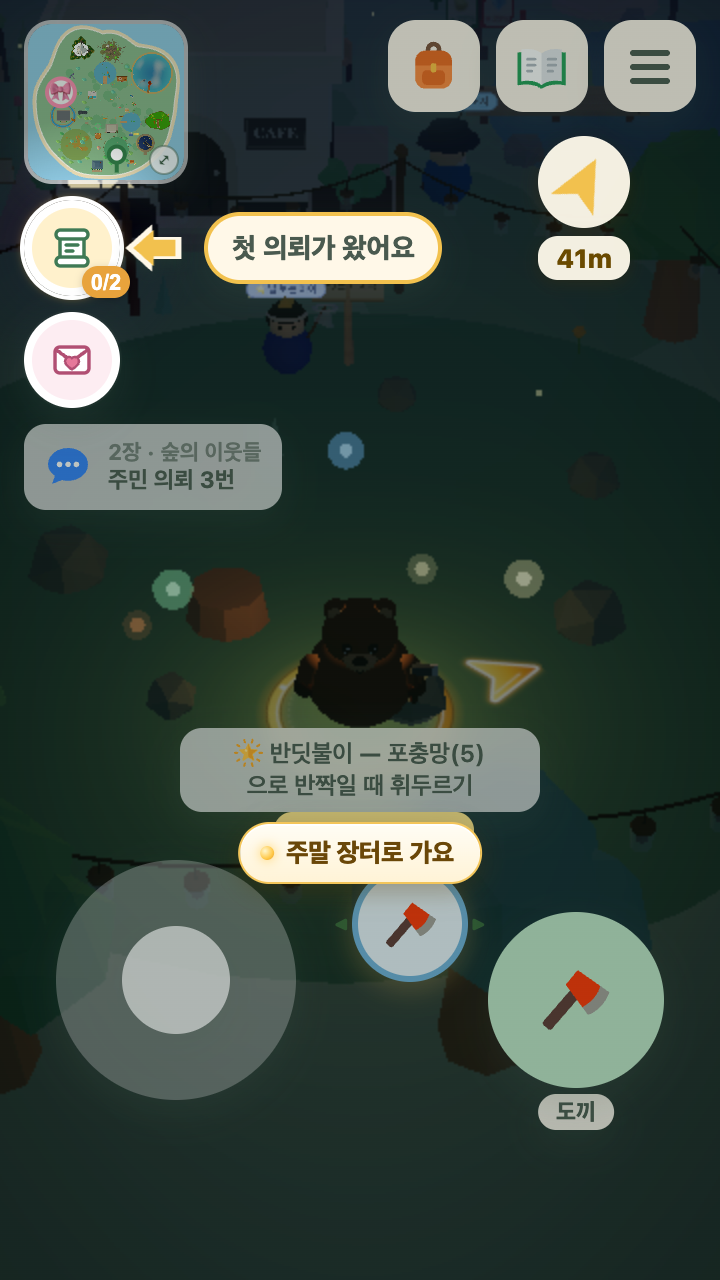
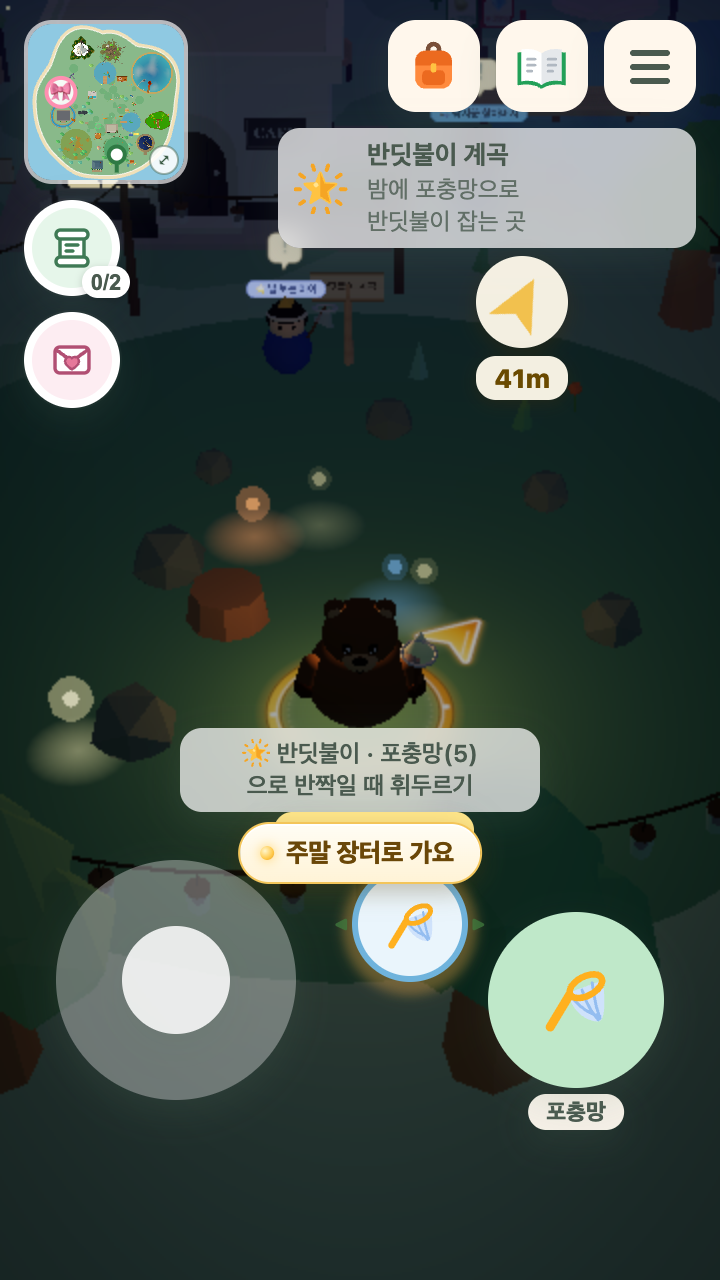
feat(glade): stream nights move as one string, light pools under low fireflies, net in hand in the glade
- trees that hold the string lights are no longer chopped, auto-axed or targeted by the tree goal
- swinging at a guarded leader sparkles the next kid instead of speeding the swarm
- zone hint copy drops the em dash

diff --git a/js/spaces/glade.js b/js/spaces/glade.js
@@ -17,9 +17,10 @@ import { BUG_KINDS, CAFE_GATE, GLADE, GLADE_R, LIGHT_WORKSHOP, LIGHT_WORKSHOP_PO
 import { PAL } from '../data/world.js';
 import { NIGHT_MIN } from '../daynight.js';
 import { gateOf, gateOpen, rollKind } from '../dex-gates.js';
-import { NIGHT_KINDS, TUNE, monoKind, nightKind, pickKindId, streamPoint } from '../glade/night.js';
+import { NIGHT_KINDS, STREAM, TUNE, monoKind, nightKind, pickKindId, streamPoint } from '../glade/night.js';
+import { buildPools, updatePools } from '../glade/pool-art.js';
 import { MONO_BANNER, NIGHT_BANNER, SWARM_BANNER, catchText, comboText, perfectText, stringBanner } from '../glade/copy.js';
-import { FIRST_DELAY, KIDS, LEADER_BUGS, NEXT_DELAY, PERFECT_BONUS, createSwarm, delay, expired, kidBright, kidsLeft, swingKid, swingLeader } from '../glade/swarm.js';
+import { FIRST_DELAY, KIDS, LEADER_BUGS, NEXT_DELAY, PERFECT_BONUS, createSwarm, delay, expired, kidBright, kidsLeft, nextKid, swingKid, swingLeader } from '../glade/swarm.js';
 import { makeLeader, setLeaderGlow } from '../glade/swarm-art.js';
 import { JARS_PER_SEG, SEG_COINS, THRESHOLDS, addCatch, nextThreshold, segmentsLit, stringColors } from '../glade/string.js';
 import { layoutAnchors } from '../glade/string-layout.js';
@@ -32,6 +33,7 @@ import * as THREE from 'three';
 const devQuery = /^(localhost|127\.0\.0\.1|\[::1\])$/.test(location.hostname) ? new URLSearchParams(location.search) : new URLSearchParams();
 let gladeNight = null;
 let nightBannerDay = '';
+let streamPhase = 0, poolArt = null;
 let stringArt = null, stringNight = null, stringCaught = -1, devApplied = false;
 const FALLBACK_COLOR = 0xfff2a8;
 
@@ -166,8 +168,10 @@ function netSwarm() {
   if (best.idx < 0) {
     const res = swingLeader(swarm, { ...odds, bright: leaderBright(t) });
     if (!res.hit) {
-      swarmBoost = 1.2; Sound.blip();
-      if (res.reason === 'miss') spawnFloatText(wx, wy + 0.5, wz, '휙— 놓쳤다!', '#8a8f7a');
+      Sound.blip();
+      if (res.reason === 'miss') { swarmBoost = 1.2; spawnFloatText(wx, wy + 0.5, wz, '휙— 놓쳤다!', '#8a8f7a'); return true; }
+      const kid = swarmObjs.kids[nextKid(swarm)];
+      if (kid) spawnSparkle(kid.position.x + GLADE.x, kid.position.y, kid.position.z + GLADE.z, 14);
       return true;
     }
     swarm = res.sw;
@@ -240,7 +244,10 @@ export function buildGlade() {
   }
   obstacles.push({ x: GLADE.x, z: GLADE.z, r: GLADE_R });   // 계곡 안엔 밭 금지(빈터 유지)
   const ringTrees = trees.map(t => ({ x: t.position.x - GLADE.x, z: t.position.z - GLADE.z }));
-  stringArt = buildString({ group: gladeGroup, anchors: layoutAnchors(ringTrees, GLADE_R), clayMat, mergeGeos });
+  const anchors = layoutAnchors(ringTrees, GLADE_R);
+  for (const a of anchors) if (!a.post) trees[a.i].userData.holdsString = true;
+  stringArt = buildString({ group: gladeGroup, anchors, clayMat, mergeGeos });
+  poolArt = buildPools(gladeGroup, GLADE_MAX + KIDS);
 }
 
 // 종류 추첨 — 🌈무지개반디는 🌧비·🌫안개 낀 날 **밤**에만(게이트 안에서 18%). 표는 js/dex-gates.js
@@ -269,7 +276,7 @@ export function makeFirefly(kind) {
     phase: Math.random() * Math.PI * 2,          // 점멸 위상 — 밝을 때 휘둘러야 잘 잡힘
     tx: 0, tz: 0, ty: 1.4,                       // 배회 목적지(계곡 로컬)
     flee: 0,                                     // 남은 도망 시간(초)
-    su: Math.random() * Math.PI * 2,
+    so: 0, home: Math.random() * STREAM.window,
   };
   retargetFirefly(g);
   return g;
@@ -288,6 +295,11 @@ export function spawnFirefly() {
   const a = Math.random() * Math.PI * 2, r = Math.random() * (GLADE_R - 1);
   const tune = nightNow().tune;
   bug.position.set(Math.cos(a) * r, tune.yMin + Math.random() * (tune.yMax - tune.yMin), Math.sin(a) * r);
+  if (nightNow().kind === 'stream') {
+    bug.userData.so = bug.userData.home;
+    const p = streamPoint(streamPhase - bug.userData.so, GLADE_R - 0.8);
+    bug.position.x = p.x; bug.position.z = p.z;
+  }
   gladeGroup.add(bug); gladeBugs.push(bug);
 }
 
@@ -309,10 +321,12 @@ export function updateFireflyBugs(dt, t) {
     if (swarm) endSwarm(t, 'timeout');
     swarmAt = 0;
     gladeNight = null;
+    if (poolArt) poolArt.mesh.count = 0;
     return;
   }
   const now = nightNow(), tune = now.tune, stream = now.kind === 'stream';
   announceNight(now);
+  if (stream) streamPhase += dt * STREAM.speed;
   if (t >= bugRespawnAt && gladeBugs.length < GLADE_MAX && !swarm) {
     spawnFirefly();
     $w.bugRespawnAt = t + (1.2 + Math.random() * 2.4) * tune.respawn;
@@ -325,6 +339,7 @@ export function updateFireflyBugs(dt, t) {
     // 점멸 — 밝을 때가 "잡을 타이밍"(사인 곡선 그대로 UI/성공률에 연동)
     const bright = 0.5 + 0.5 * Math.sin(u.phase);
     const fade = Math.min(1, (nightLevel - NIGHT_MIN) / 0.2);   // 해질녘엔 서서히 나타남
+    u.bright = bright;
     u.core.material.opacity = (0.3 + bright * 0.7) * fade;
     u.halo.material.opacity = (0.05 + bright * 0.3) * fade;
     u.halo.scale.setScalar(0.8 + bright * 0.55);
@@ -334,10 +349,10 @@ export function updateFireflyBugs(dt, t) {
     if (pd < tune.fleeDist && u.flee <= 0) { u.flee = 0.9; }
     let sp = tune.speed;
     if (stream) {
-      u.su += dt * (u.flee > 0 ? 1.1 : 0.35);
-      const p = streamPoint(u.su, GLADE_R - 0.8);
-      u.tx = p.x; u.tz = p.z; sp = u.flee > 0 ? 2.6 : 1.4;
-      if (u.flee > 0) u.flee -= dt;
+      if (u.flee > 0) { u.flee -= dt; u.so = Math.max(-STREAM.ahead, u.so - dt * 0.8); }
+      else u.so += (u.home - u.so) * Math.min(1, dt * 0.6);
+      const p = streamPoint(streamPhase - u.so, GLADE_R - 0.8);
+      u.tx = p.x; u.tz = p.z; sp = u.flee > 0 ? 2.8 : 2.4;
     } else if (u.flee > 0) {
       u.flee -= dt; sp = 2.3;
       const k = pd || 0.001;
@@ -348,12 +363,15 @@ export function updateFireflyBugs(dt, t) {
     const td = Math.hypot(tdx, tdz);
     if (td < 0.25 && u.flee <= 0 && !stream) retargetFirefly(bug);
     else {
-      bug.position.x += (tdx / (td || 1)) * sp * dt;
-      bug.position.z += (tdz / (td || 1)) * sp * dt;
+      const step = Math.min(td, sp * dt);
+      bug.position.x += (tdx / (td || 1)) * step;
+      bug.position.z += (tdz / (td || 1)) * step;
     }
     bug.position.y += tdy * dt * 0.8 + Math.sin(t * 2.2 + u.phase) * dt * 0.35;   // 위아래로 하늘하늘
   }
   updateSwarm(dt, t);
+  const kidsOut = swarm ? swarmObjs.kids.filter((k, i) => swarm.kids[i]) : [];
+  if (poolArt) updatePools(poolArt, kidsOut.length ? [...gladeBugs, ...kidsOut] : gladeBugs, Math.max(0, Math.min(1, (nightLevel - NIGHT_MIN) / 0.2)));
 }
 
 // 🦋 포충망 휘두르기 — 밤 + 계곡 + 반딧불이 근처에서만. 반짝일 때 휘둘러야 잘 잡힘

diff --git a/js/glade/pool-art.js b/js/glade/pool-art.js
@@ -1,0 +1,35 @@
+import * as THREE from 'three';
+import { poolGlow } from './night.js';
+
+const POOL_Y = 0.04;
+
+export function buildPools(group, max) {
+  const geo = new THREE.CircleGeometry(1, 20);
+  geo.rotateX(-Math.PI / 2);
+  const fall = new Float32Array(geo.attributes.position.count * 3);
+  fall.set([1, 1, 1]);
+  geo.setAttribute('color', new THREE.BufferAttribute(fall, 3));
+  const mat = new THREE.MeshBasicMaterial({ vertexColors: true, transparent: true, opacity: 0.5, blending: THREE.AdditiveBlending, depthWrite: false, toneMapped: false });
+  const mesh = new THREE.InstancedMesh(geo, mat, max);
+  const black = new THREE.Color(0x000000);
+  for (let i = 0; i < max; i++) mesh.setColorAt(i, black);
+  mesh.count = 0;
+  mesh.frustumCulled = false;
+  group.add(mesh);
+  return { mesh, max, m: new THREE.Matrix4(), c: new THREE.Color() };
+}
+
+export function updatePools(art, bugs, fade) {
+  let n = 0;
+  for (const b of bugs) {
+    if (n >= art.max) break;
+    const g = poolGlow(b.position.y, b.userData.bright ?? 0.5);
+    if (g.k <= 0.01) continue;
+    art.mesh.setMatrixAt(n, art.m.makeScale(g.r, 1, g.r).setPosition(b.position.x, POOL_Y, b.position.z));
+    art.mesh.setColorAt(n, art.c.set(b.userData.kind.color).multiplyScalar(g.k * fade));
+    n++;
+  }
+  art.mesh.count = n;
+  art.mesh.instanceMatrix.needsUpdate = true;
+  art.mesh.instanceColor.needsUpdate = true;
+}

diff --git a/js/glade/string-layout.js b/js/glade/string-layout.js
@@ -5,7 +5,7 @@ const spanTo = (a, b) => ((b - a) + TAU) % TAU || TAU;
 
 export function layoutAnchors(trees, R, count = 11) {
   let ring = trees
-    .map(p => ({ x: p.x, z: p.z, d: Math.hypot(p.x, p.z), a: Math.atan2(p.z, p.x) }))
+    .map((p, i) => ({ x: p.x, z: p.z, d: Math.hypot(p.x, p.z), a: Math.atan2(p.z, p.x), i }))
     .filter(p => p.d > R + BAND_IN && p.d < R + BAND_OUT)
     .sort((p, q) => p.a - q.a);
   while (ring.length > count) {
@@ -26,7 +26,7 @@ export function layoutAnchors(trees, R, count = 11) {
   }
   const out = [];
   ring.forEach((p, i) => {
-    out.push({ a: p.a, x: p.x * (1 - INSET / p.d), z: p.z * (1 - INSET / p.d), post: false });
+    out.push({ a: p.a, x: p.x * (1 - INSET / p.d), z: p.z * (1 - INSET / p.d), post: false, i: p.i });
     for (let k = 1; k <= gaps[i].posts; k++) {
       const a = p.a + (gaps[i].span * k) / (gaps[i].posts + 1);
       out.push({ a, x: Math.cos(a) * (R + POST_OUT), z: Math.sin(a) * (R + POST_OUT), post: true });

diff --git a/js/i18n-en.js b/js/i18n-en.js
@@ -2557,8 +2557,8 @@ export const EN = {
   '집 외관 꾸미기': 'House Exterior Decor',
   '지붕·벽·문 색을 바꿔 나만의 집으로': 'Recolor the roof, walls, and door — make it yours',
   '💬 {0}': '💬 {0}',
-  '🌟 반딧불이 — 포충망(5)으로 반짝일 때 휘두르기': '🌟 Fireflies — swing the Bug Net (5) when they flash',
-  '🌟 반딧불이 계곡 — 🌙 밤에 다시 오세요': '🌟 Firefly Valley — 🌙 come back at night',
+  '🌟 반딧불이 · 포충망(5)으로 반짝일 때 휘두르기': '🌟 Fireflies · swing the Bug Net (5) when they flash',
+  '🌟 반딧불이 계곡 · 🌙 밤에 다시 오세요': '🌟 Firefly Valley · 🌙 come back at night',
   '반딧불이 계곡': 'Firefly Valley',
   '식당이 문을 열었어요. 반딧불이 계곡 아래로 가 보세요': 'The restaurant is open. Head below Firefly Valley',
   '⚠ 재고가 부족해요': '⚠ Running low on ingredients',

diff --git a/js/game.js b/js/game.js
@@ -1989,7 +1989,7 @@ export function projectToScreen(pos, lift = 0) {
 let spotTool = SPOT_IDLE;
 function nearestTreeDist() {
   let d = Infinity;
-  for (const tree of trees) { if (tree.userData.fallen) continue; const e = dist2D(tree.position, player.position); if (e < d) d = e; }
+  for (const tree of trees) { if (tree.userData.fallen || tree.userData.holdsString) continue; const e = dist2D(tree.position, player.position); if (e < d) d = e; }
   return d;
 }
 function updateSpotToolAuto() {
@@ -8144,7 +8144,7 @@ function handleAction() {
   if (fg) {
     let treeD = Infinity;
     if (TOOLS[currentTool].id === 'axe') {
-      for (const tr of trees) if (!tr.userData.fallen) treeD = Math.min(treeD, dist2D(tr.position, player.position));
+      for (const tr of trees) if (!tr.userData.fallen && !tr.userData.holdsString) treeD = Math.min(treeD, dist2D(tr.position, player.position));
     }
     if (treeD >= fg.d) return tryForage(fg.node);
   }

diff --git a/js/spaces/doors.js b/js/spaces/doors.js
@@ -534,7 +534,7 @@ export function updateZoneHint() {
   const wasGlade = nearGlade;
   $w.nearGlade = inVillage2() && isOpen('glade') && dist2D(GLADE, player.position) < GLADE_R + 0.5;
   if (nearGlade && !nearLightWorkshop) {   // 🏮 공방 문 앞에선 공방 프롬프트만 — 밤에 안내 두 줄이 겹쳤다
-    hint = isNight() ? '🌟 반딧불이 — 포충망(5)으로 반짝일 때 휘두르기' : '🌟 반딧불이 계곡 — 🌙 밤에 다시 오세요';
+    hint = isNight() ? '🌟 반딧불이 · 포충망(5)으로 반짝일 때 휘두르기' : '🌟 반딧불이 계곡 · 🌙 밤에 다시 오세요';
     if (!wasGlade) { trackEvent('zone_enter', { zone: 'glade', night: isNight() }); decorBanner('firefly'); }   // [GA4] 밤 콘텐츠 유입
     firstHintBanner('glade', '🌟', '반딧불이 계곡', '밤에 포충망으로 반딧불이 잡는 곳');
   }

diff --git a/js/guide/goal-guide.js b/js/guide/goal-guide.js
@@ -91,8 +91,9 @@ export function createGoalGuide(deps) {
     if (key === 'tree') {
       if (!inV) return null;
       const npcs = deps.npcSpots();
-      const clear = (t) => !t.userData.fallen && npcs.every(n => Math.hypot(n.x - t.position.x, n.z - t.position.z) >= NPC_CLEAR);
-      return { at: nearest(deps.trees(), clear) || nearest(deps.trees(), t => !t.userData.fallen), g: GOALS.tree };
+      const standing = (t) => !t.userData.fallen && !t.userData.holdsString;
+      const clear = (t) => standing(t) && npcs.every(n => Math.hypot(n.x - t.position.x, n.z - t.position.z) >= NPC_CLEAR);
+      return { at: nearest(deps.trees(), clear) || nearest(deps.trees(), standing), g: GOALS.tree };
     }
     if (key === 'cave') {
       if (inV) return { at: deps.mineGate, g: GOALS.cave, arrive: GATE_ARRIVE };

diff --git a/js/data/tools.js b/js/data/tools.js
@@ -66,6 +66,6 @@ export const ZONE_PAGE = {
 
 // 세트만으론 부족한 구역 — 들 도구까지 정해 준다. 광산은 ⛏괭이 말고 할 일이 없는데
 // 세트만 펴 주면 마지막에 쓰던 🌰씨앗·낫이 손에 남아 "눌러도 안 캐진다"가 됐다(베타 피드백).
-export const ZONE_TOOL = { mine: 'hoe' };
+export const ZONE_TOOL = { mine: 'hoe', glade: 'net' };
 
 export const ZONE_KIT = { mine: ['hoe'] };

diff --git a/js/glade/night.js b/js/glade/night.js
@@ -33,3 +33,10 @@ export const TUNE = Object.freeze({
 });
 
 export const streamPoint = (u, R) => ({ x: R * 0.68 * Math.sin(u), z: R * 0.4 * Math.sin(2 * u) });
+
+export const STREAM = Object.freeze({ speed: 0.35, window: 1.4, ahead: 0.6 });
+
+export function poolGlow(y, bright) {
+  const near = Math.min(1, Math.max(0, (1.7 - y) / 1.2));
+  return { k: near * (0.35 + 0.65 * bright), r: 0.35 + 0.45 * near };
+}

diff --git a/js/spaces/fishing.js b/js/spaces/fishing.js
@@ -150,7 +150,7 @@ export function updateFishing() {
 export function tryChop() {
   let nearest = null, nd = 2.6;
   for (const tree of trees) {
-    if (tree.userData.fallen) continue;
+    if (tree.userData.fallen || tree.userData.holdsString) continue;
     const d = dist2D(tree.position, player.position);
     if (d < nd) { nd = d; nearest = tree; }
   }

diff --git a/dev/active/glade-polish/glade-polish-context.md b/dev/active/glade-polish/glade-polish-context.md
@@ -1,0 +1,17 @@
+# 반딧불이 계곡 다듬기 · context
+
+Last Updated: 2026-11-22
+
+- 기준: main 491e8783. 계곡 코드 `js/spaces/glade.js`, 규칙 `js/glade/*.js`, 기록 `dev/active/glade-develop/`
+- 나무 베기는 `js/spaces/fishing.js` `tryChop`, 자동 도끼 잡기는 `js/game.js` `nearestTreeDist` → `js/spot-tool-auto.js`
+- 구역 도구 표 `js/data/tools.js` `ZONE_PAGE`·`ZONE_TOOL`(테스트 `tests/mine-tool-kit.test.mjs`)
+- 점검 캡처 도구: scratchpad `strip.mjs`(시간차 4장) + ffmpeg tile
+
+## 결과 (2026-11-22)
+- 6가지 모두 구현, npm test 6709 통과, build-web 성공, i18n_check 계곡 7/7(doors.js 118/119 는 main 과 같음, 밭 넓히기 문구)
+- CDP 확인: 계곡 들어가면 포충망, 나가면 원래 도끼로. 줄등 나무 8그루는 안 베임(hp 3→3), 다른 나무는 베임. 큰 반디 지킴 중 휘두르면 다음 꼬마 자리에 반짝 14개
+- 바닥 빛은 처음 납작한 원판으로 보여 정점색으로 가운데→가장자리 흐림 처리
+- 코드 리뷰 반영: 나무 베기 목표 화살표·채집 판정도 줄등 나무 제외(goal-guide.js, game.js), 바닥 빛 fade 음수 방지, 한 줄기 속도 2.4(교차점에서 뒤처짐), 목표보다 멀리 가는 떨림 방지(step=min)
+- 남긴 것: 매 프레임 작은 배열·객체 몇 개(지금 규모에선 무해), 줄등 나무 근처에서 자동 도끼가 잡힌 채 계곡에 들어가면 나갈 때 도끼로 돌아옴(광산과 같은 기존 방식)
+- 캡처: `sims/glade-polish/before-after-gnight_{stream,low}.png`, `sims/glade-develop/impl/phone-gnight_low.png`
+- 미확인: 실기기·fps·소리

diff --git a/dev/active/glade-polish/glade-polish-plan.md b/dev/active/glade-polish/glade-polish-plan.md
@@ -1,0 +1,14 @@
+# 반딧불이 계곡 다듬기 · plan
+
+main 491e8783(계곡 디벨롭 병합) 위에서 브랜치 `feat/glade-polish`, 워크트리 `.claude/worktrees/glade-polish`, 미리보기 `glade-polish` 포트 8933.
+
+사용자 요청: "더 다듬어"(2026-11-22). 점검 캡처(시간차 4장)로 찾은 것만 고친다.
+
+1. 계곡에 들어가면 포충망을 손에 든다(`ZONE_TOOL.glade = 'net'`). 지금은 도끼가 그대로라 폰에서 도구 휠을 열어야 한다
+2. 줄등이 걸린 둘레 나무는 베지 않는다(`userData.holdsString`). 베면 줄이 허공에 뜨고, 근처에서 도끼가 자동으로 잡힌다
+3. 무리 지어 도는 밤: 공용 위상 + 반디마다 짧은 간격으로 한 줄기가 보이게(지금은 8자 위에 흩어져 평범한 밤과 구별이 안 됨)
+4. 바닥 빛 고임: 반디가 낮을수록 바닥에 빛이 고인다(인스턴스 1개). 낮게 내려앉은 밤이 위에서 보이게
+5. 큰 반디가 지키는 중에 휘두르면 다음 차례 꼬마가 반짝(새 문구 없음), 지킴에는 무리 가속을 걸지 않는다
+6. 계곡 안내 알약 두 줄의 엠대시를 "·"로(한국어·영어)
+
+검증: npm test, build-web, 시간차 캡처 전후 비교(PC·폰), 드로우콜, 코드 리뷰.
